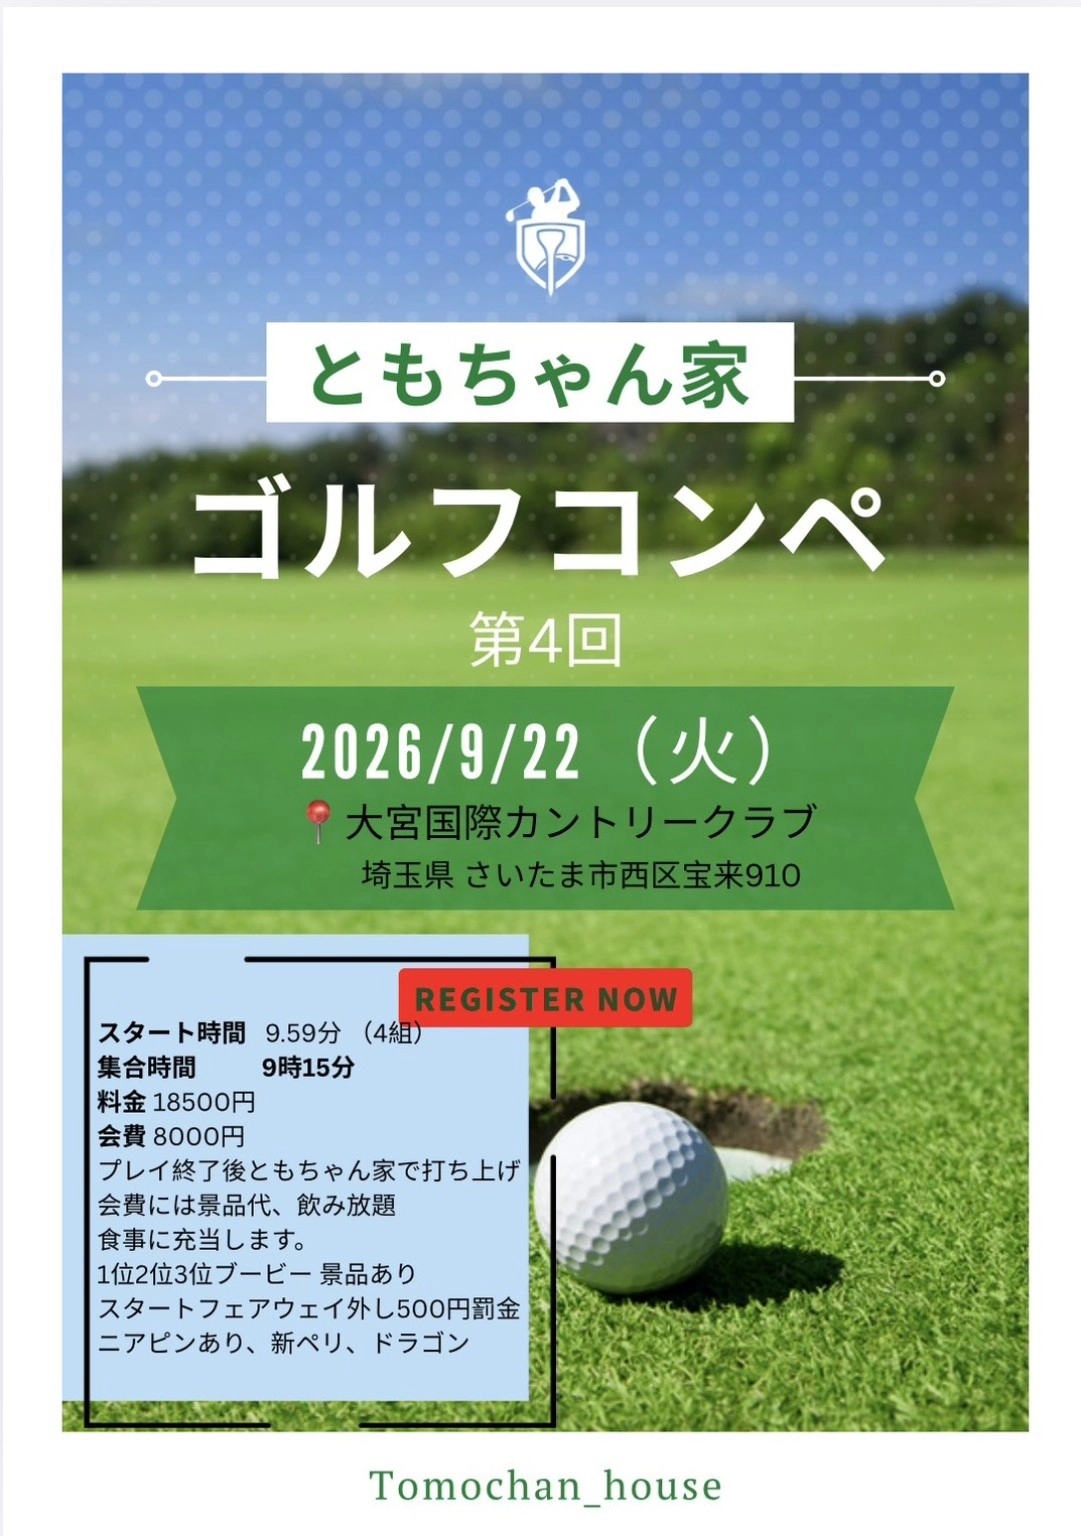
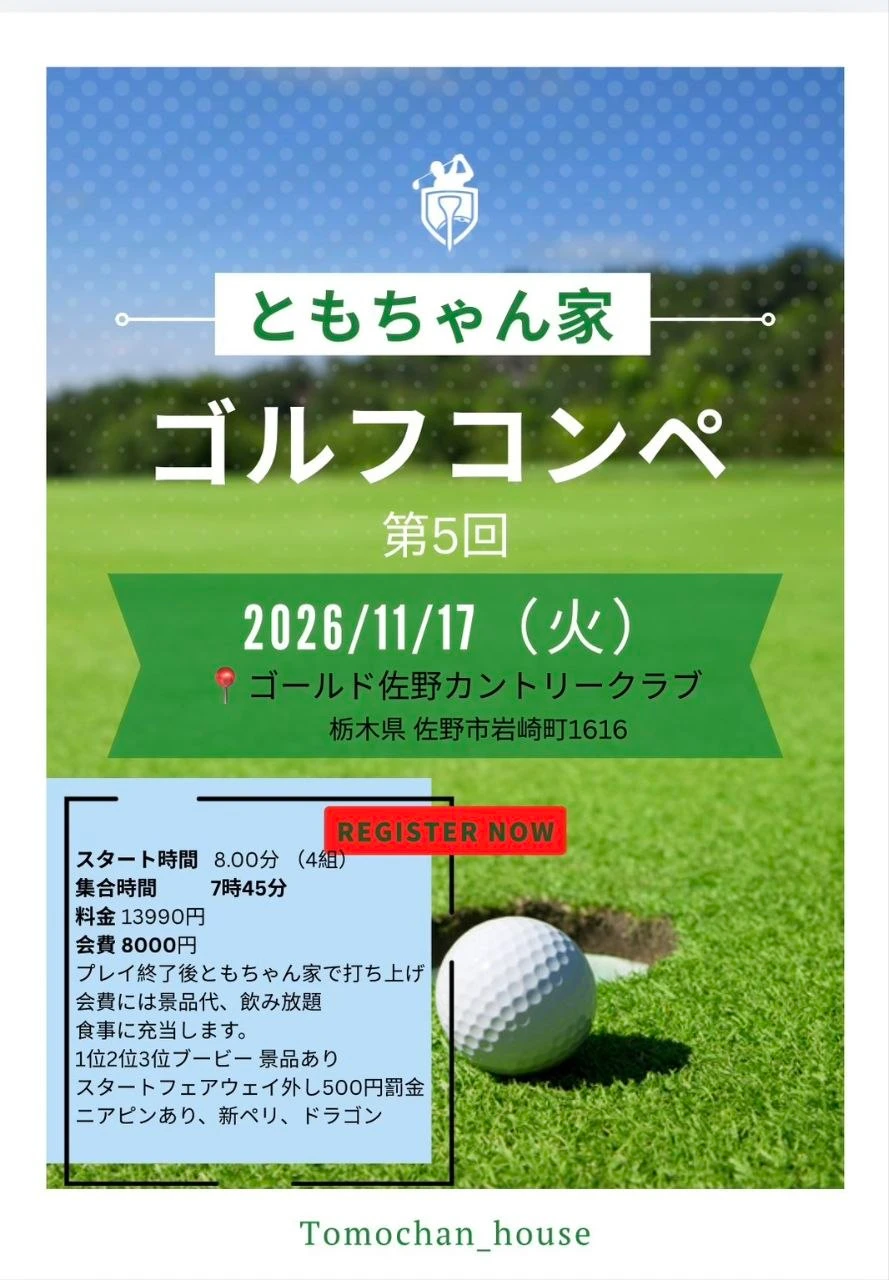
4 golf torm

Changed region(s): [[0.0304, 0.0312, 0.9719, 1.0], [0.3645, 0.0938, 0.4252, 0.1562], [0.6682, 0.125, 0.6985, 0.1562]]

diff --git a/src/content/siteContent.ts b/src/content/siteContent.ts
@@ -378,8 +378,8 @@ export const siteContent = {
       },
       { date: "毎月末日", event: "特別メニュー登場", icon: "✨" },
       {
-        date: "2026年9月22日",
-        event: "第4回ゴルフコンペ開催",
+        date: "2026年11月17日",
+        event: "第5回ゴルフコンペ開催",
         icon: "⛳",
         isSpecial: true,
       },
@@ -389,36 +389,36 @@ export const siteContent = {
       { date: "年末年始", reason: "要確認" },
     ],
     calendar: {
-      month: 9,
+      month: 10,
       year: 2026,
-      closedDates: [1, 6, 15, 21, 23, 27],
-      specialDates: [{ date: 22, label: "ゴルフコンペ開催", emoji: "⛳", color: "yellow" }],
+      closedDates: [4, 5, 12, 13, 18, 19, 26, 27],
+      specialDates: [],
     },
     specialEvent: {
-      title: "ゴルフコンペ 第4回",
-      date: "2026年9月22日（火）",
-      description: "ともちゃん家ゴルフコンペ第4回を開催します。",
+      title: "ゴルフコンペ 第5回",
+      date: "2026年11月17日（火）",
+      description: "ともちゃん家ゴルフコンペ第5回を開催します。",
       image: "/images/events/golf-tournament.webp",
       details: [
         {
           icon: "📍",
           label: "会場",
-          value: "大宮国際カントリークラブ（埼玉県さいたま市西区宝来910）",
+          value: "ゴールド佐野カントリークラブ（栃木県佐野市岩崎町1616）",
         },
         {
           icon: "🕘",
           label: "集合時間",
-          value: "9時15分",
+          value: "7時45分",
         },
         {
           icon: "🏌",
           label: "スタート時間",
-          value: "9時59分（4組）",
+          value: "8時00分（4組）",
         },
         {
           icon: "💴",
           label: "プレイ料金",
-          value: "18,500円",
+          value: "13,990円",
         },
         {
           icon: "🍻",
